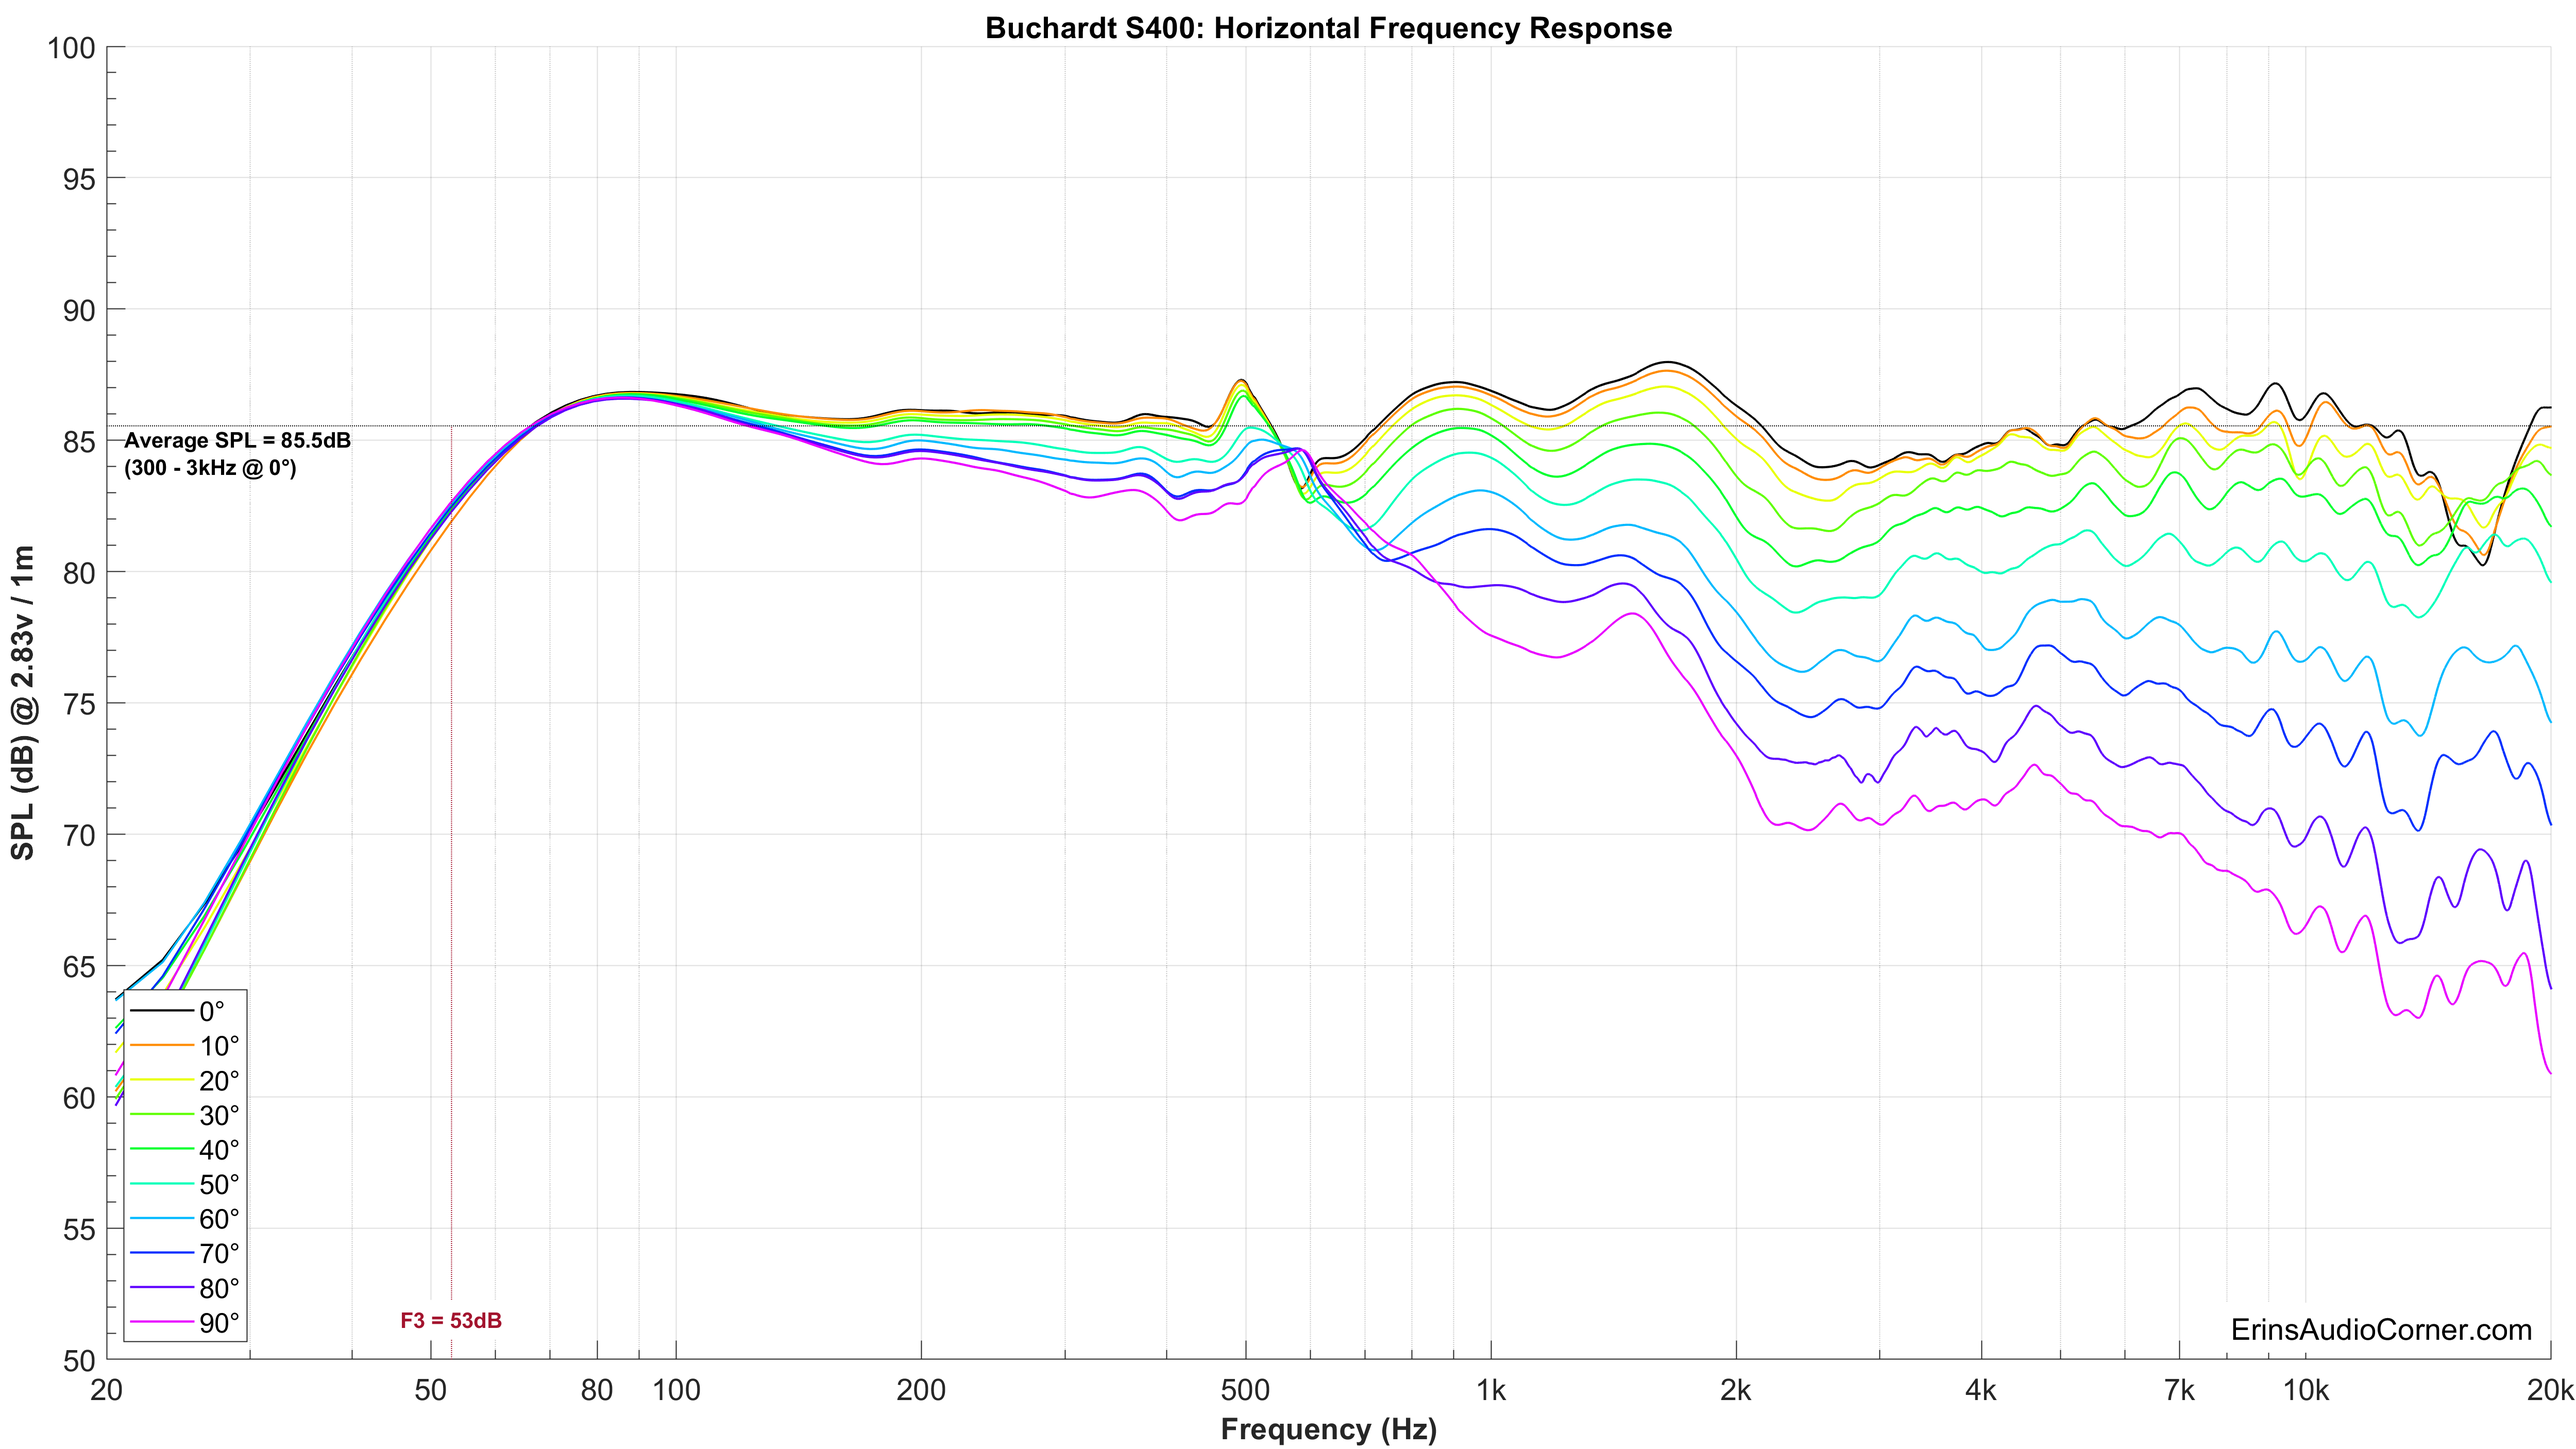
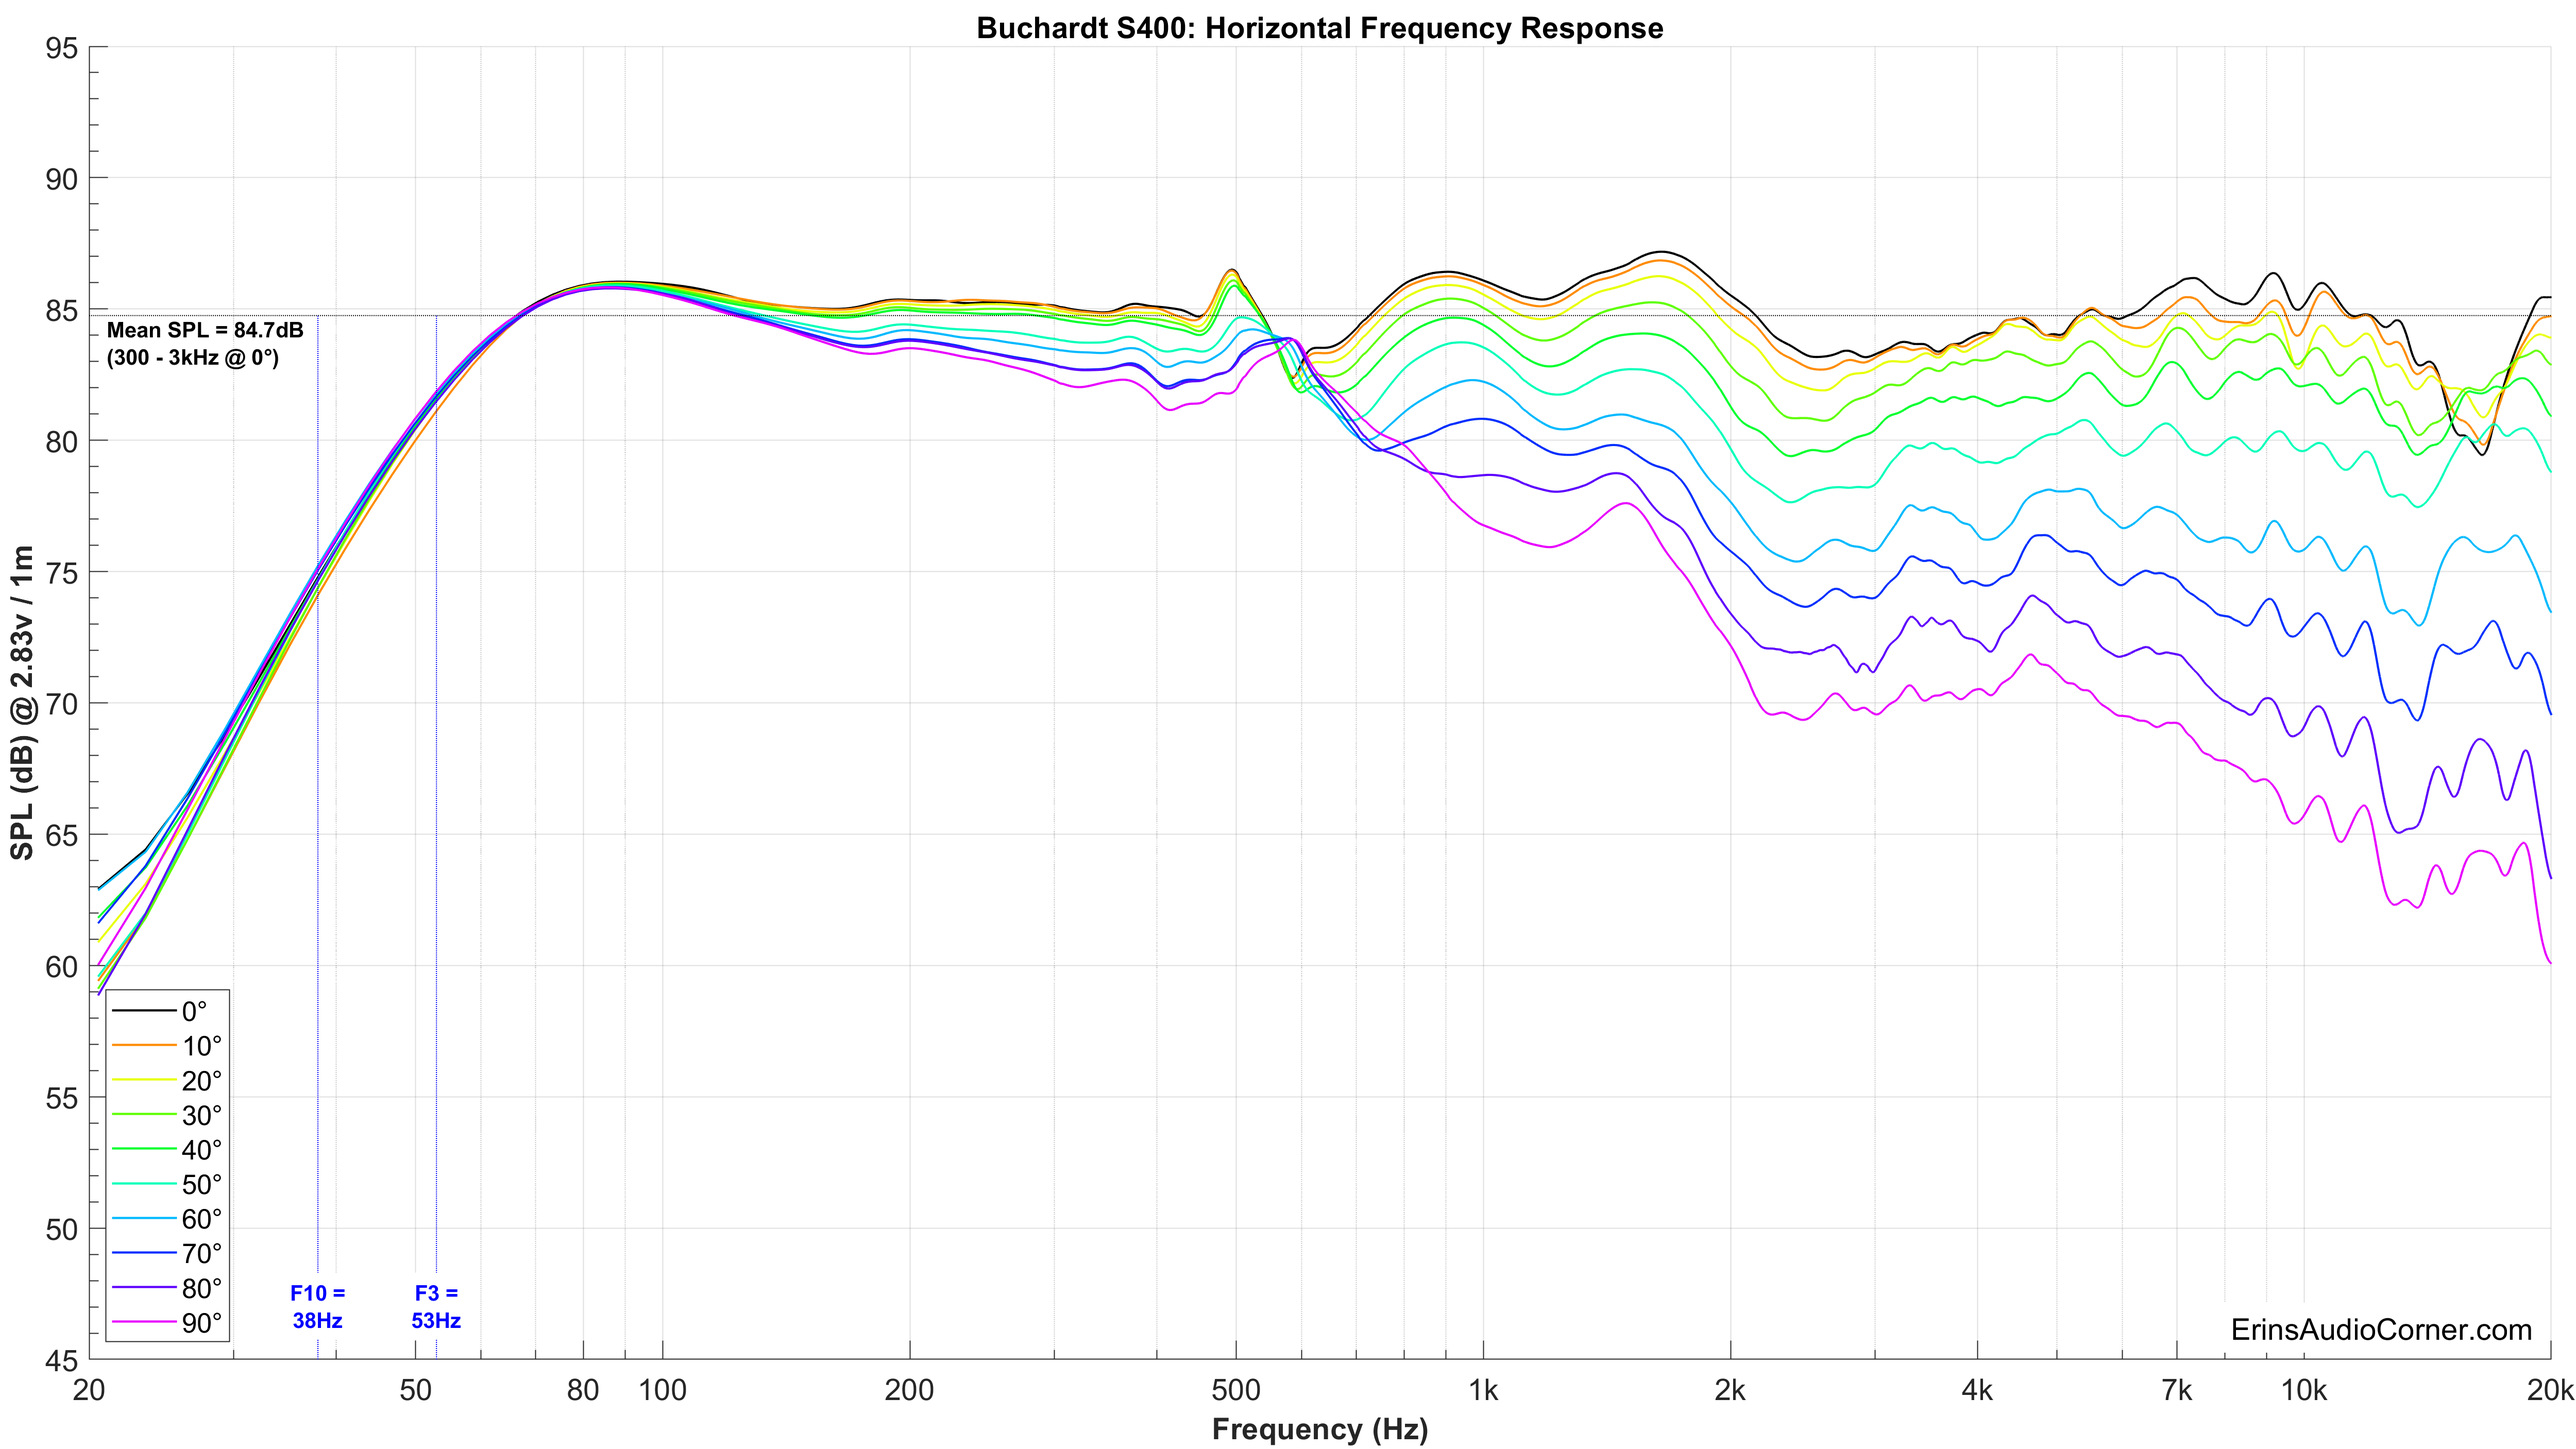
Buchardt_S400_update_FR

diff --git a/content/english/loudspeakers/Buchardt_Audio_S400_Bookshelf.md b/content/english/loudspeakers/Buchardt_Audio_S400_Bookshelf.md
@@ -79,7 +79,14 @@ Frequency response data (horizontal, vertical, "Spinorama", polar, spectrograms,
 
 <br>
 
-I believe most who read speaker reviews are used to seeing a standard Frequency Response (FR) graphic like you see below.  Below are both the horizontal and vertical response over a limited window (90° horizontal, ±40° vertical).  I have provided a "normalized" set of data as well.  The normalization simply means that I took the difference of the on-axis response and compared the other axes' measurements to the on-axis response which gives the viewer a good idea of the speaker performance, relative to the on-axis response, as you move off-axis.
+The measurement below provides the frequency response at the reference measurement axis - also known as the 0-degree axis or "on axis" plane - in this measurement condition was situated between the woofer and waveguide, per the manufacturer recommendation.  Ideally, the response is linear/flat and shows no resonance via peaks or dips.  The mean spl, approximately 84.7dB, is calculated over the frequency range of 300Hz to 3,000Hz.  The blue shaded area represents the ±3dB response window from this mean spl value.  As you can see, the Buchardt S400 has a ±3dB response from 53Hz - ~16kHz, with the latter being a function of the on-axis dip via cancelation of the dome tweeter to the waveguide mouth which is not apparent off-axis. The speaker's F3 point (the point at which the response has fallen 3dB relative to the mean spl) is 53Hz and the F10 (the point at which the response has fallen by 10dB relative to the mean spl) is 38Hz.  While typical rooms provide a low-frequency boost, if you plan to listen to music with lower frequency content, this information indicates you would need a subwoofer to fill in the lower octaves (or, you can use EQ to boost the low end but lowering the maximum SPL).
+
+<img align="left" src="/images/Reviews/Loudspeakers/Buchardt_S400/Buchardt S400 FR_Linearity.png" alt="fr horz" width="120%"/>
+
+<br clear="all" />
+
+
+Below are both the horizontal and vertical response over a limited window (90° horizontal, ±40° vertical).  I have provided a "normalized" set of data as well.  The normalization simply means that I took the difference of the on-axis response and compared the other axes' measurements to the on-axis response which gives the viewer a good idea of the speaker performance, relative to the on-axis response, as you move off-axis.
 
 <img align="left" src="/images/Reviews/Loudspeakers/Buchardt_S400/Buchardt S400 Horizontal FR.png" alt="fr horz" width="120%"/>
 
@@ -175,7 +182,9 @@ Note the legend provided in the top left of each image; this helps you understan
 <br><br>
 ### CEA-2034 (aka: Spinorama):
 
-The following set of data is populated via the 360-degree, 10° stepped, "spins" from vertical and horizontal planes. Thus, this is sometimes referred to as "Spinorama" data.  Audioholics has a great writeup on what these data mean ([link here](https://www.audioholics.com/loudspeaker-design/understanding-loudspeaker-measurements)) and there is no sense in me trying to re-invent the wheel so I will reference you to them for further discussion.  However, I will explain these curves lightly and provide my own spin on what they mean (pun totally intended).  Sausalito Audio also has a good writeup on these curves [here](https://www.sausalitoaudio.com/wp-content/uploads/2018/07/Interpreting-Spinorama-Charts.pdf).  Furthermore, you can find discussion in Dr. Floyd Toole's book "Sound Reproduction".  [Here's my Amazon affiliate link](https://amzn.to/37tZN0A) if you want to purchase it and help me earn about 2% of the price.
+The following set of data is populated via the 360-degree, 10° stepped, "spins" from vertical and horizontal planes. Thus, this is sometimes referred to as "Spinorama" data.  Audioholics has a great writeup on what these data mean ([link here](https://www.audioholics.com/loudspeaker-design/understanding-loudspeaker-measurements)) and there is no sense in me trying to re-invent the wheel so I will reference you to them for further discussion.  However, I will explain these curves lightly and provide my own spin on what they mean (pun totally intended).  Sausalito Audio also has a good writeup on these curves [here](https://www.sausalitoaudio.com/wp-content/uploads/2018/07/Interpreting-Spinorama-Charts.pdf).  Furthermore, you can find discussion in Dr. Floyd Toole's book "Sound Reproduction".  [Here's my Amazon affiliate link](https://amzn.to/37tZN0A) if you want to purchase it and help me earn about 2% of the price.  And, finally, [here](https://www.youtube.com/watch?v=zrpUDuUtxPM) is a great video of Dr. Toole discussing the use of measurements to quantify in-room performance.
+
+
 
 In short, the CEA-2034 graphic below takes all the response measurements (horizontal and vertical) and applies weighting and averaging to sub-sets and can help provide an (accurate) prediction of the response in a typical room.  If there is a single set of data to use in your purchase decision, this is probably it.
 
